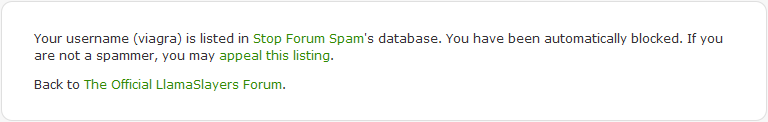
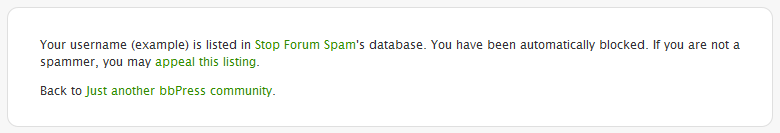
* Switched to WP_Http  * A bug where non-spammers could be blocked has been fixed  * Serious logic bug fixed  * Oh yeah, I didn't actually release 0.8 yet.

Changed region(s): [[0.0312, 0.2705, 0.9688, 0.3689], [0.0312, 0.418, 0.4375, 0.5164], [0.0312, 0.6393, 0.375, 0.7377]]

diff --git a/nospamuser/trunk/bb-nospamuser.php b/nospamuser/trunk/bb-nospamuser.php
@@ -1,7 +1,7 @@
 <?php
 /*
 Plugin Name: bb-NoSpamUser
-Version: 0.8.1
+Version: 0.8
 Plugin URI: http://nightgunner5.wordpress.com/tag/bb-nospamuser/
 Description: Prevents known spam users from registering on your forum.
 Author: Nightgunner5
@@ -11,6 +11,8 @@ Tested up to: trunk
 Text Domain: nospamuser
 Domain Path: translations/
 */
+
+define( 'NOSPAMUSER_AGENT', ' | NoSpamUser/0.8' );
 
 if ( !function_exists( 'add_action' ) ) {
 	@include_once( dirname( dirname( dirname( __FILE__ ) ) ) . '/bb-load.php' ) or exit;
@@ -42,7 +44,8 @@ function nospamuser_install() {
 		'api_key' => '',
 		'recaptcha_mode' => 'aggressive',
 		'recapthca_pub' => '',
-		'recaptcha_priv' => ''
+		'recaptcha_priv' => '',
+		'stats_public' => 0
 	) ) );
 }
 bb_register_plugin_activation_hook( __FILE__, 'nospamuser_install' );
@@ -133,7 +136,7 @@ function nospamuser_admin() {
 		),
 		'max_occur' => array(
 			'title' => __( 'Maximum frequency', 'nospamuser' ),
-			'note' => __( 'Possible spammers that have at least this many reports will be disallowed in adaptive mode.', 'nospamuser' ),
+			'note' => __( 'Possible spammers that have at least this many reports will be disallowed in adaptive mode. This also affects agressive mode, where spammers with at least this many reports will be blocked even if the maximum days prerequisite is not met.', 'nospamuser' ),
 			'class' => 'short',
 			'value' => $settings['max_occur']
 		),
@@ -202,25 +205,44 @@ add_action( 'bb_admin_menu_generator', 'nospamuser_admin_add' );
 
 function nospamuser_check( $type, $data ) {
 	$settings = bb_get_option( 'nospamuser-settings' );
+	if ( !$settings )
+		bb_update_option( 'nospamuser-settings', $settings = array(
+			'days' => 30,
+			'min_occur' => 5,
+			'max_occur' => 10,
+			'api_key' => '',
+			'recaptcha_mode' => 'aggressive',
+			'recapthca_pub' => '',
+			'recaptcha_priv' => '',
+			'stats_public' => 0
+		) );
 
 	if ( !is_array( $result = bb_get_transient( 'nospamuser-' . $type . '-' . md5( $data ) ) ) ) {
-		$ch = curl_init( 'http://www.stopforumspam.com/api?' . urlencode( $type ) . '=' . urlencode( $data ) );
-		curl_setopt( $ch, CURLOPT_RETURNTRANSFER, true );
-		$response = curl_exec( $ch );
-		curl_close( $ch );
+		$wp_http = new WP_Http;
+		$response = $wp_http->get( 'http://www.stopforumspam.com/api?' . urlencode( $type ) . '=' . urlencode( $data ), array(
+			'user-agent' => apply_filters( 'http_headers_useragent', backpress_get_option( 'wp_http_version' ) ) . NOSPAMUSER_AGENT
+		) );
+		$response = $response['body'];
+
 
 		if ( strpos( $response, '<response success="true">' ) === false )
 			return;
 
 		if ( strpos( $response, '<appears>no</appears>' ) !== false )
 			$result = array( 0, 0 );
-		else
-			$result = array( (int)substr( $response, strpos( $response, '<frequency>' ) + 11 ), strtotime( current( explode( '<', substr( $response, strpos( $response, '<lastseen>' ) ) ) ) ) );
+		else {
+			preg_match( '/<lastseen>([^<>]+)<\/lastseen>/', $response, $matches );
+			$result = array( (int)substr( $response, strpos( $response, '<frequency>' ) + 11 ), strtotime( $matches[1] ) );
+		}
 
 		bb_set_transient( 'nospamuser-' . $type . '-' . md5( $data ), $result, 604800 );
 	}
 
-	if ( $result[0] >= $settings['min_occur'] && $result[1] <= time() - $settings['days'] * 86400 ) {
+	if ( $result == array( 0, 0 ) ) // Even if the settings are set incorrectly, non-spammers shouldn't be blocked.
+		return;
+
+	if ( ( $result[0] >= $settings['min_occur'] && $result[1] >= time() - $settings['days'] * 86400 ) ||
+		 ( $result[0] >= $settings['max_occur'] && $settings['recaptcha_mode'] == 'aggressive' ) ) {
 		if ( $result[0] >= $settings['max_occur'] && $settings['recaptcha_mode'] == 'adaptive' )
 			nospamuser_block( $type, $data, true );
 		elseif ( $settings['recaptcha_mode'] == 'aggressive' || !$settings['recaptcha_pub'] || !$settings['recaptcha_priv'] )
@@ -236,18 +258,19 @@ function nospamuser_block( $type, $data, $noway ) {
 	bb_update_option( 'nospamuser-blocks', bb_get_option( 'nospamuser-blocks' ) + 1 );
 
 	$types = array(
-		'email' => 'email address',
-		'ip' => 'IP address',
-		'username' => 'username'
+		'email' => __( 'email address', 'nospamuser' ),
+		'ip' => __( 'IP address', 'nospamuser' ),
+		'username' => __( 'username', 'nospamuser' )
 	);
 
 	if ( $noway )
-		bb_die( sprintf( __( 'Your %s (%s) is listed in <a href="http://www.stopforumspam.com/">Stop Forum Spam</a>\'s database. You have been automatically blocked. If you are not a spammer, you may <a href="http://www.stopforumspam.com/removal">appeal this listing</a>.', 'nospamuser' ), $types[$type], $data ), 'Registration forbidden', 403 );
+		bb_die( sprintf( __( 'Your %1$s (%2$s) is listed in <a href="%3$s">Stop Forum Spam</a>\'s database. You have been automatically blocked. If you are not a spammer, you may <a href="http://www.stopforumspam.com/removal">appeal this listing</a>.', 'nospamuser' ), $types[$type], $data, 'http://www.stopforumspam.com/' . ( $type == 'ip' ? 'ipcheck/' : 'search?q=' ) . $data ), 'Registration forbidden', 403 );
 
 	if ( !isset( $_COOKIE['nospamuser_override'] ) || !bb_verify_nonce( $_COOKIE['nospamuser_override'], 'nospamuser-override-' . $_SERVER['REMOTE_ADDR'] ) ) {
-		require_once dirname( __FILE__ ) . '/recaptchalib.php';
+		if ( !function_exists( 'recaptcha_check_answer' ) ) // Compatibility with anything else that uses reCAPTCHA
+			require_once dirname( __FILE__ ) . '/recaptchalib.php';
 
-		bb_die( sprintf( __( 'Your %s (%s) is listed in <a href="http://www.stopforumspam.com/">Stop Forum Spam</a>\'s database. You have been automatically blocked. If you are not a spammer, you may <a href="http://www.stopforumspam.com/removal">appeal this listing</a> or solve the CAPTCHA below.%s', 'nospamuser' ), $types[$type], $data, '</p><form method="post" action="' . bb_get_plugin_uri( bb_plugin_basename( __FILE__ ) ) . '/bb-nospamuser.php"><script type="text/javascript">var RecaptchaOptions={theme:\'clean\'}</script>' . recaptcha_get_html( $settings['recaptcha_pub'] ) . '<br/><input type="submit" value="' . esc_attr__( 'Submit', 'nospamuser' ) . '"/></form>' ), 'Registration forbidden', 401 );
+		bb_die( sprintf( __( 'Your %1$s (%2$s) is listed in <a href="%3$s">Stop Forum Spam</a>\'s database. You have been automatically blocked. If you are not a spammer, you may <a href="http://www.stopforumspam.com/removal">appeal this listing</a> or solve the CAPTCHA below.', 'nospamuser' ), $types[$type], $data, 'http://www.stopforumspam.com/' . ( $type == 'ip' ? 'ipcheck/' : 'search?q=' ) . $data ) . '<form method="post" action="' . bb_get_plugin_uri( bb_plugin_basename( __FILE__ ) ) . '/bb-nospamuser.php"><script type="text/javascript">var RecaptchaOptions={theme:\'clean\'}</script>' . recaptcha_get_html( $settings['recaptcha_pub'] ) . '<br/><input type="submit" value="' . esc_attr__( 'Submit', 'nospamuser' ) . '"/></form>', 'Registration forbidden', 401 );
 	}
 }
 
@@ -292,25 +315,16 @@ function nospamuser_check_bozo( $user_id ) { // Most of this function is taken f
 			return;
 	bb_set_current_user( (int) $bb_current_id );
 
-	$request  = 'username=' . $user_obj->user_login;
-	$request .= '&ip_addr=' . $user_obj->data->nospamuser_ip;
-	$request .= '&email=' . $user_obj->user_email;
-	$request .= '&api_key=' . $settings['api_key'];
-
-	$http_request  = 'POST /post.php HTTP/1.0' . "\r\n";
-	$http_request .= 'Host: www.stopforumspam.com' . "\r\n";
-	$http_request .= 'Content-Type: application/x-www-form-urlencoded; charset=utf-8' . "\r\n";
-	$http_request .= 'Content-Length: ' . strlen( $request ) . "\r\n";
-	$http_request .= 'User-Agent: bbPress/' . bb_get_option( 'version' ) . ' | NoSpamUser/0.8.1' . "\r\n";
-	$http_request .= "\r\n";
-	$http_request .= $request;
-	if ( $fs = @fsockopen( 'www.stopforumspam.com', 80, $errno, $errstr, 10 ) ) {
-		fwrite( $fs, $http_request );
-		$data = '';
-		while ( !feof( $fs ) )
-			$data .= fread( $fs, 1024 );
-		fclose( $fs );
-	}
+	$wp_http = new WP_Http;
+	$wp_http->post( 'http://www.stopforumspam.com/post.php', array(
+		'body' => array(
+			'username' => $user_obj->user_login,
+			'ip_addr' => $user_obj->data->nospamuser_ip,
+			'email' => $user_obj->user_email,
+			'api_key' => $settings['api_key']
+		),
+		'user-agent' => apply_filters( 'http_headers_useragent', backpress_get_option( 'wp_http_version' ) ) . NOSPAMUSER_AGENT
+	) );
 }
 add_action( 'profile_edited', 'nospamuser_check_bozo' );
 
